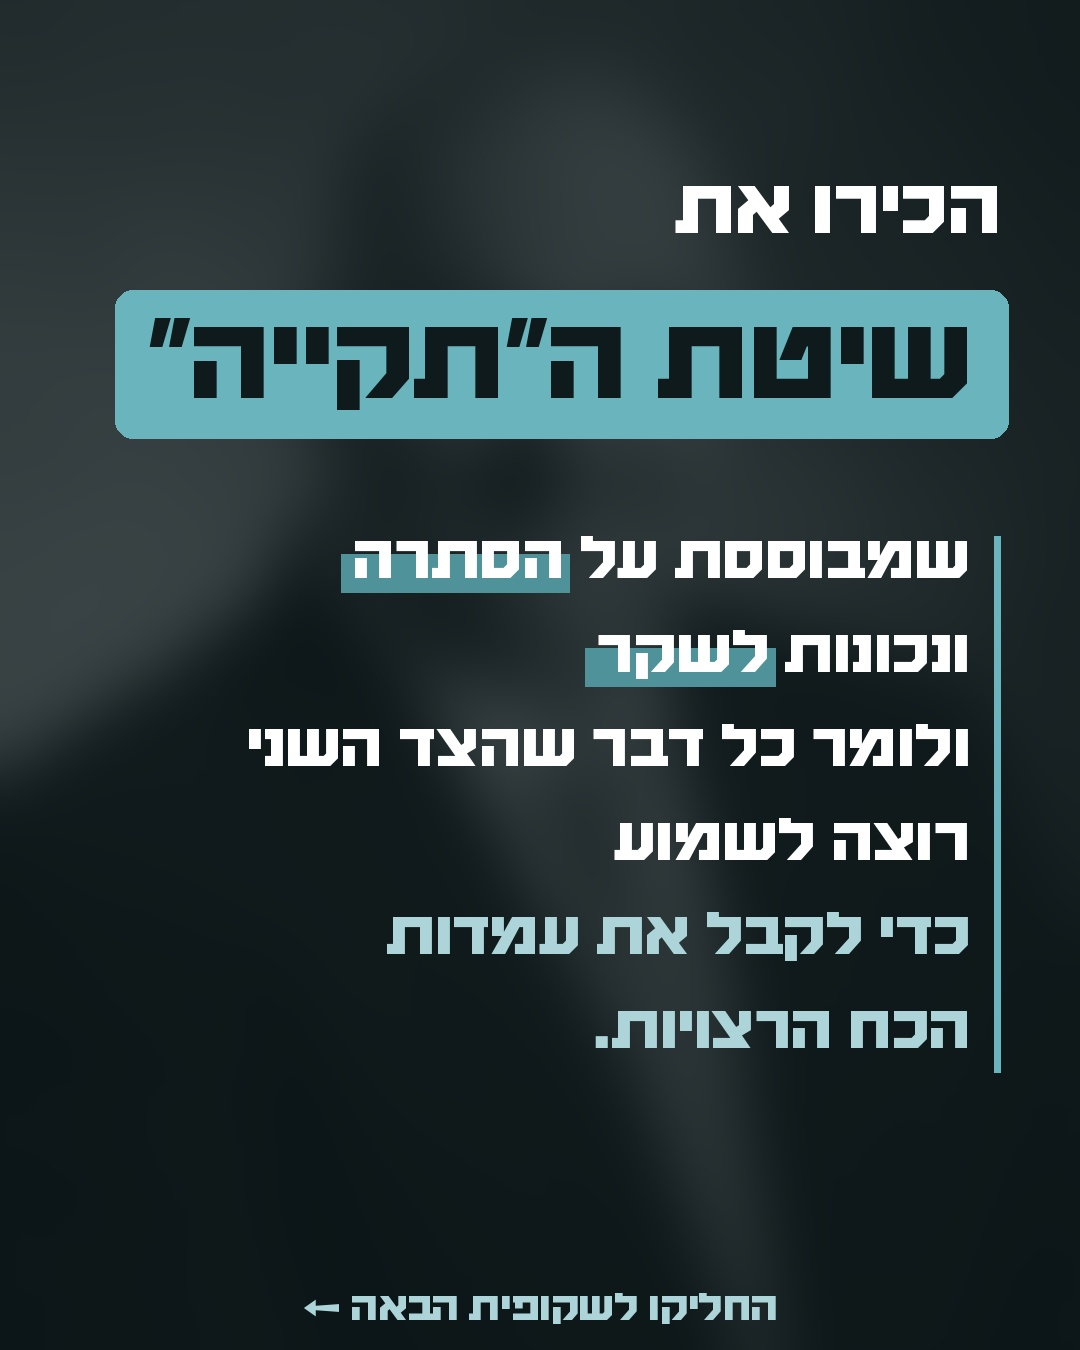
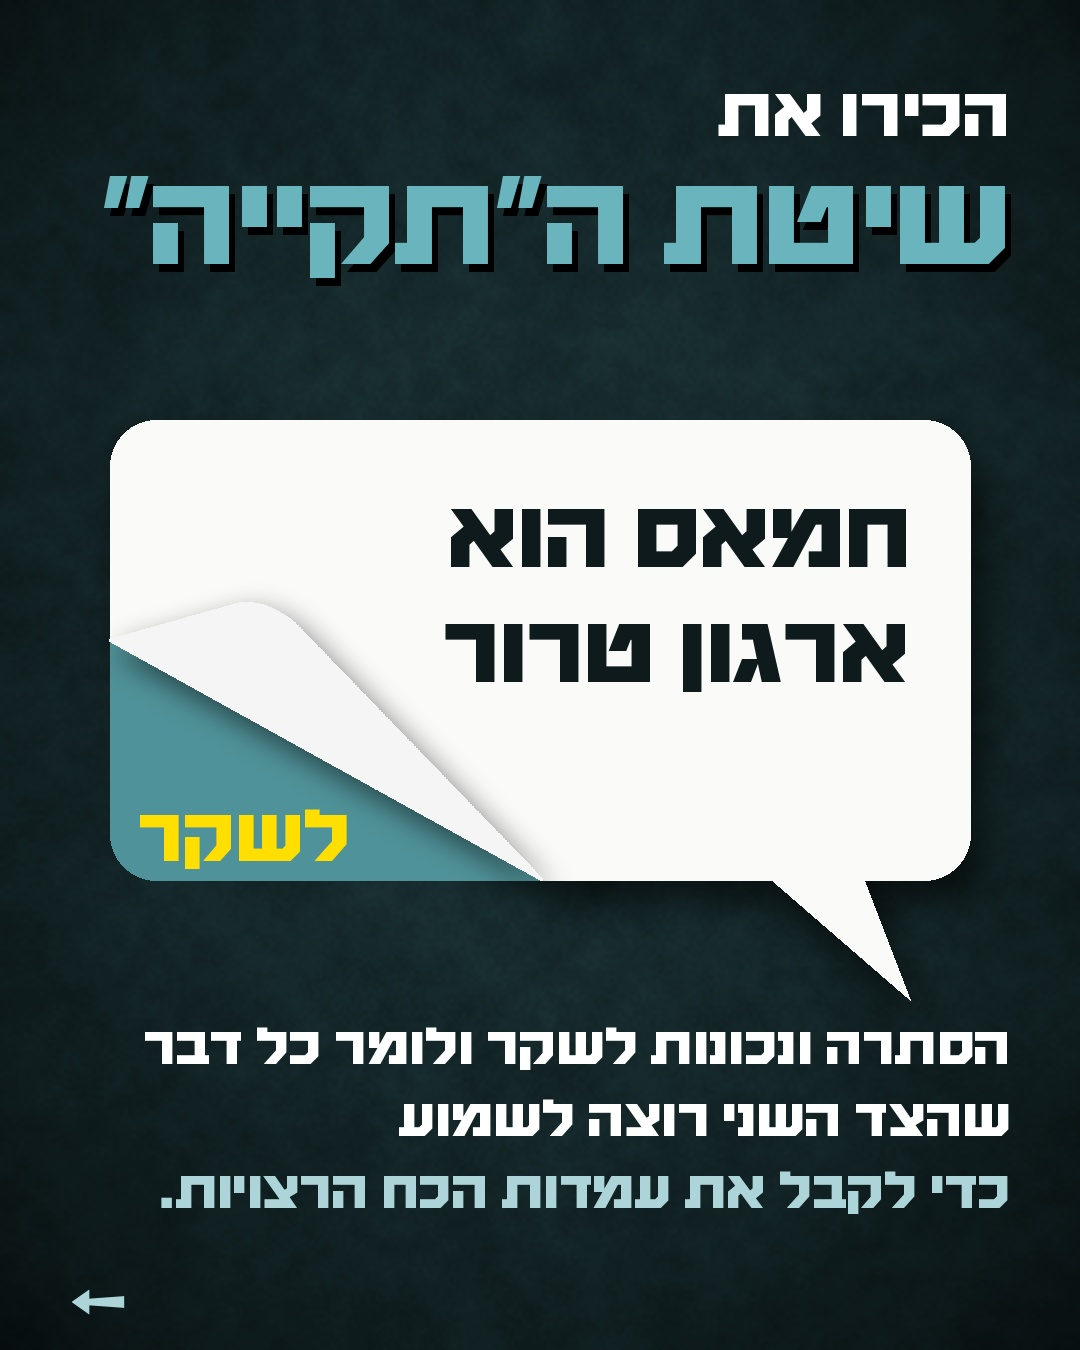
Abbas carousel v2: peeling-bubble slide 2, duotone punch slide 3
Claude-Session: https://claude.ai/code/session_01RS3QK6pAd3YhyAuXZSJjH1

diff --git a/content-kit/hatzionut-hadatit/2026-11-post-abbas-taqiyya/make_s2.py b/content-kit/hatzionut-hadatit/2026-11-post-abbas-taqiyya/make_s2.py
@@ -1,0 +1,79 @@
+"""Carousel v2, slide 2: 'הכירו את שיטת ה״תקייה״' — a speech-bubble sticker ('חמאס הוא ארגון טרור', the ynet wording)
+peeling off to reveal Smotrich's words underneath. No photo (the only Abbas portrait is used once, on slide 3)."""
+import os, numpy as np
+from PIL import Image, ImageDraw, ImageFont, ImageFilter
+HERE = os.path.dirname(os.path.abspath(__file__))
+HAIM = os.path.abspath(os.path.join(HERE, '..', '..', 'fonts', 'HaimClassicv2FM-Bold.ttf'))
+W, H = 1080, 1350
+DEEP, TEAL, LT, PALE, NIGHT = (43, 81, 85), (80, 146, 153), (105, 180, 189), (173, 213, 217), (14, 26, 28)
+YEL = (255, 222, 0)
+def F(s): return ImageFont.truetype(HAIM, s, layout_engine=ImageFont.Layout.RAQM)
+rng = np.random.default_rng(11)
+def concrete():
+    n = sum(np.asarray(Image.fromarray((rng.random((H // s + 1, W // s + 1)) * 255).astype(np.uint8)).resize((W, H), Image.BICUBIC), np.float32) * w
+            for s, w in [(4, .25), (16, .35), (64, .4)])
+    n = (n - n.mean()) / n.std()
+    base = np.array(NIGHT, np.float32)[None, None] * (1 + .10 * n[..., None]) + np.array(DEEP, np.float32)[None, None] * .25
+    yy, xx = np.mgrid[0:H, 0:W]; v = 1 - .55 * (((xx - W / 2) / W) ** 2 + ((yy - H * .45) / H) ** 2) * 2.2
+    return Image.fromarray(np.clip(base * v[..., None], 0, 255).astype(np.uint8))
+
+im = concrete().convert('RGBA'); d = ImageDraw.Draw(im); R = W - 70
+# header
+d.text((R, 80), 'הכירו את', font=F(70), fill='white', anchor='ra', direction='rtl')
+fh = F(150); t = 'שיטת ה״תקייה״'
+while d.textlength(t, font=fh, direction='rtl') > W - 150: fh = F(fh.size - 4)
+d.text((R + 6, 160 + 8), t, font=fh, fill=(0, 0, 0, 160), anchor='ra', direction='rtl')
+d.text((R, 160), t, font=fh, fill=LT, anchor='ra', direction='rtl')
+
+# ---- bubble geometry ----
+BX0, BY0, BX1, BY1 = 110, 420, 970, 880
+def bubble_mask():
+    m = Image.new('L', (W, H), 0); md = ImageDraw.Draw(m)
+    md.rounded_rectangle((BX0, BY0, BX1, BY1), 46, fill=255)
+    md.polygon([(BX1 - 210, BY1 - 10), (BX1 - 60, BY1 + 120), (BX1 - 110, BY1 - 10)], fill=255)   # tail
+    return m
+bm = bubble_mask()
+# underlayer: what is really underneath (Smotrich's words), visible where the sticker has peeled
+under = Image.new('RGBA', (W, H), (0, 0, 0, 0)); ud = ImageDraw.Draw(under)
+ud.rounded_rectangle((BX0, BY0, BX1, BY1), 46, fill=TEAL + (255,))
+fu = F(96)
+while ud.textlength('לשקר', font=fu, direction='rtl') > 215: fu = F(fu.size - 2)
+ud.text((350, 800), 'לשקר', font=fu, fill=YEL, anchor='ra', direction='rtl')
+under.putalpha(Image.fromarray(np.minimum(np.asarray(under.getchannel('A')), np.asarray(bm))))
+# sticker: white bubble with the headline wording
+stk = Image.new('RGBA', (W, H), (0, 0, 0, 0)); sd = ImageDraw.Draw(stk)
+stk.paste((250, 250, 248, 255), (0, 0), bm)
+fs = F(96)
+sd.text((BX1 - 60, BY0 + 70), 'חמאס הוא', font=fs, fill=NIGHT, anchor='ra', direction='rtl')
+sd.text((BX1 - 60, BY0 + 185), 'ארגון טרור', font=fs, fill=NIGHT, anchor='ra', direction='rtl')
+# peel: everything on the lower-left side of the fold line is lifted off
+P0, P1 = np.array([BX0 - 10, BY0 + 215.]), np.array([BX0 + 450, BY1 + 10.])
+nrm = np.array([P1[1] - P0[1], -(P1[0] - P0[0])]); nrm /= np.linalg.norm(nrm)
+yy, xx = np.mgrid[0:H, 0:W]
+side = (xx - P0[0]) * nrm[0] + (yy - P0[1]) * nrm[1]          # >0 : peeled region (lower-left)
+if ((BX0 + 20 - P0[0]) * nrm[0] + (BY1 - 20 - P0[1]) * nrm[1]) < 0: side = -side
+keep = Image.fromarray(((side <= 0) * 255).astype(np.uint8)).filter(ImageFilter.GaussianBlur(.8))
+a = np.minimum(np.asarray(stk.getchannel('A')), np.asarray(keep)); stk.putalpha(Image.fromarray(a))
+# flap: the peeled part reflected over the fold, curled (scaled toward the fold), back side of the paper
+peel = (side > 0) & (np.asarray(bm) > 0)
+ys, xs = np.nonzero(peel); dist = (xs - P0[0]) * nrm[0] + (ys - P0[1]) * nrm[1]
+curl = .55
+fx = xs - nrm[0] * dist * (1 + curl); fy = ys - nrm[1] * dist * (1 + curl)
+flap = np.zeros((H, W, 4), np.float32)
+fxi, fyi = np.clip(fx.astype(int), 0, W - 1), np.clip(fy.astype(int), 0, H - 1)
+shade = 205 + 40 * np.clip(1 - dist / (dist.max() + 1e-6), 0, 1)                 # lighter near the fold
+flap[fyi, fxi, :3] = shade[:, None]; flap[fyi, fxi, 3] = 255
+flap_im = Image.fromarray(flap.astype(np.uint8), 'RGBA').filter(ImageFilter.MaxFilter(3))
+fsh = flap_im.getchannel('A').filter(ImageFilter.GaussianBlur(14)).point(lambda v: int(v * .55))
+# compose: drop shadow of the sticker, underlayer, sticker, flap shadow, flap
+sh = Image.fromarray(np.maximum(np.asarray(bm) * 0, a)).filter(ImageFilter.GaussianBlur(18)).point(lambda v: int(v * .6))
+im.paste((0, 0, 0, 255), (12, 22), sh)
+im.alpha_composite(under); im.alpha_composite(stk)
+shadow = Image.new('RGBA', (W, H), (0, 0, 0, 0)); shadow.putalpha(fsh); im.alpha_composite(shadow, (8, 12))
+im.alpha_composite(flap_im)
+# rest of his sentence under the bubble
+d = ImageDraw.Draw(im); y = BY1 + 140
+for line, col in [('הסתרה ונכונות לשקר ולומר כל דבר', 'white'), ('שהצד השני רוצה לשמוע', 'white'), ('כדי לקבל את עמדות הכח הרצויות.', PALE)]:
+    d.text((R, y), line, font=F(54), fill=col, anchor='ra', direction='rtl'); y += 72
+d.text((70, H - 48), '←', font=F(60), fill=PALE, anchor='lm')
+im.convert('RGB').save(HERE + '/slide2.jpg', quality=95); print('ok')

diff --git a/content-kit/hatzionut-hadatit/2026-11-post-abbas-taqiyya/make_s3.py b/content-kit/hatzionut-hadatit/2026-11-post-abbas-taqiyya/make_s3.py
@@ -1,0 +1,44 @@
+"""Carousel v2, slide 3 (punch): the one Abbas portrait as a dark teal duotone with grain, headline with a yellow marker,
+closing stripe 'אסור ליפול למלכודת הזו'. All text = Smotrich's exact words."""
+import os, numpy as np
+from PIL import Image, ImageDraw, ImageFont, ImageFilter, ImageEnhance
+HERE = os.path.dirname(os.path.abspath(__file__))
+HAIM = os.path.abspath(os.path.join(HERE, '..', '..', 'fonts', 'HaimClassicv2FM-Bold.ttf'))
+W, H = 1080, 1350
+DEEP, TEAL, LT, PALE, NIGHT = (43, 81, 85), (80, 146, 153), (105, 180, 189), (173, 213, 217), (14, 26, 28)
+YEL = (255, 222, 0)
+def F(s): return ImageFont.truetype(HAIM, s, layout_engine=ImageFont.Layout.RAQM)
+src = Image.open(HERE + '/src/abbas.jpg').convert('L')
+PH = 900
+ph = src.resize((W, int(W * src.height / src.width)), Image.LANCZOS).crop((0, 40, W, 40 + PH))
+ph = ImageEnhance.Contrast(ph).enhance(1.25).filter(ImageFilter.UnsharpMask(3, 70, 2))
+g = np.asarray(ph).astype(np.float32) / 255
+g = np.clip(g + np.random.default_rng(3).normal(0, .03, g.shape), 0, 1)[..., None]
+duo = np.array(NIGHT, np.float32) * (1 - g) + np.array((225, 240, 241), np.float32) * g     # teal duotone
+im = Image.new('RGB', (W, H), NIGHT); im.paste(Image.fromarray(duo.astype(np.uint8)), (0, 0))
+fade = np.clip((np.arange(H) - (PH - 300)) / 300, 0, 1) ** 1.1
+im = Image.composite(Image.new('RGB', (W, H), NIGHT), im, Image.fromarray((fade[:, None] * 255).repeat(W, 1).astype(np.uint8)))
+d = ImageDraw.Draw(im); R = W - 70
+# headline
+y = 790
+f1 = F(88); t1 = 'עבאס רוצה להיכנס לממשלה'
+while d.textlength(t1, font=f1, direction='rtl') > W - 150: f1 = F(f1.size - 3)
+d.text((R + 4, y + 5), t1, font=f1, fill=(0, 0, 0), anchor='ra', direction='rtl')
+d.text((R, y), t1, font=f1, fill='white', anchor='ra', direction='rtl')
+y += 120
+f2 = F(88); a2, b2 = 'כדי', 'לחסל את ישראל מבפנים'
+wa = d.textlength(a2 + ' ', font=f2, direction='rtl')
+while wa + d.textlength(b2, font=f2, direction='rtl') > W - 150: f2 = F(f2.size - 3); wa = d.textlength(a2 + ' ', font=f2, direction='rtl')
+d.text((R, y), a2, font=f2, fill='white', anchor='ra', direction='rtl')
+wb = d.textlength(b2, font=f2, direction='rtl'); xr = R - wa
+bb = d.textbbox((xr, y), b2, font=f2, anchor='ra', direction='rtl')
+d.polygon([(xr + 14, bb[1] - 14), (xr - wb - 18, bb[1] - 8), (xr - wb - 12, bb[3] + 16), (xr + 18, bb[3] + 10)], fill=YEL)   # hand-laid marker
+d.text((xr, y), b2, font=f2, fill=NIGHT, anchor='ra', direction='rtl')
+# closing stripe
+SY = 1080
+d.rectangle((0, SY, W, H), fill=TEAL); d.rectangle((0, SY, W, SY + 8), fill=LT)
+ft = F(92); t = 'אסור ליפול למלכודת הזו'
+while d.textlength(t, font=ft, direction='rtl') > W - 120: ft = F(ft.size - 3)
+d.text((W // 2, SY + 48), t, font=ft, fill='white', anchor='ma', direction='rtl')
+d.text((W // 2, SY + 175), 'ולהקים ממשלת אסון שתישען על אויבי ישראל.', font=F(42), fill=NIGHT, anchor='ma', direction='rtl')
+im.save(HERE + '/slide3.jpg', quality=95); print('ok')
